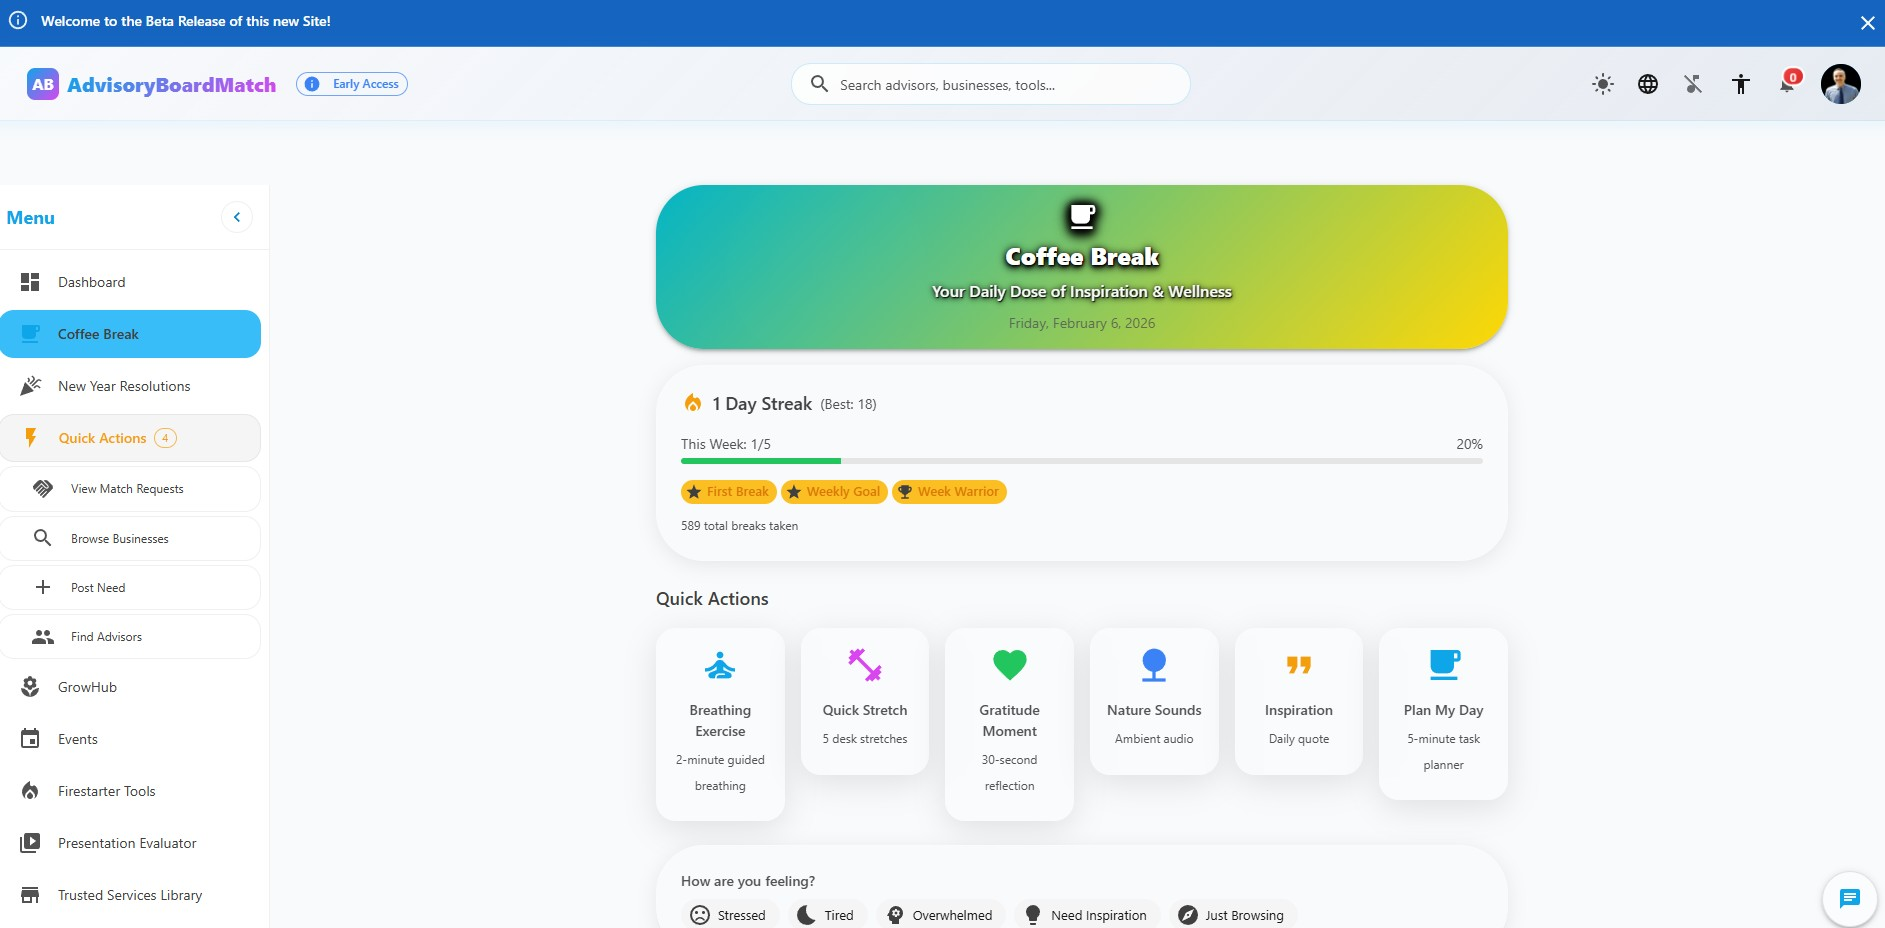
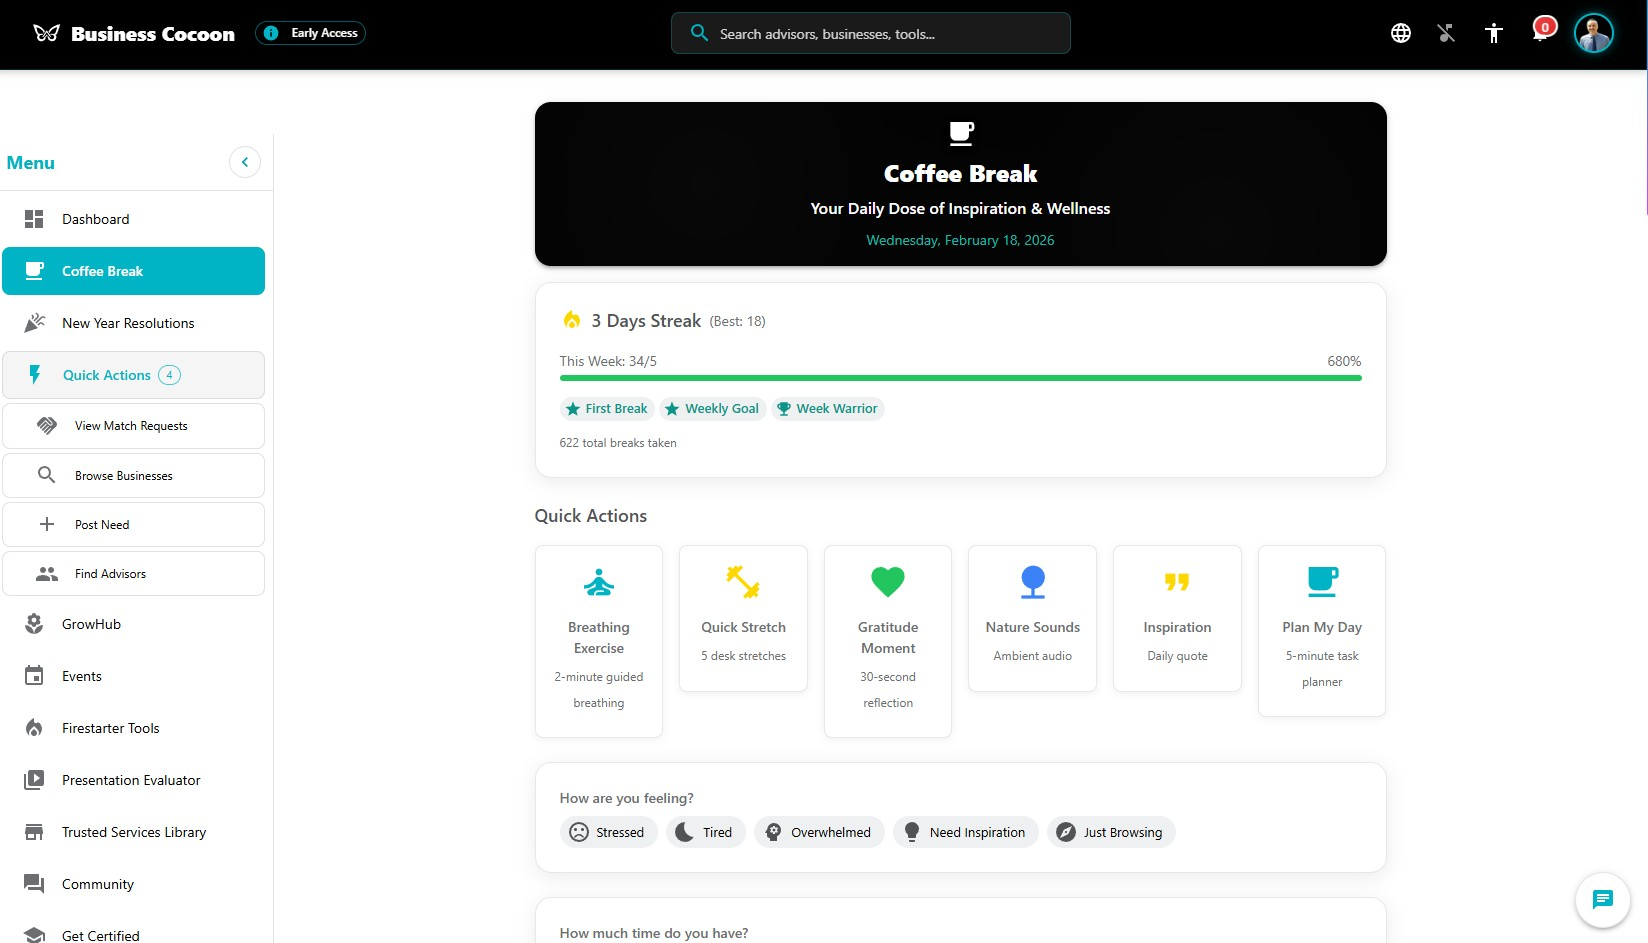
feat: Update references from 'Advisory Board Match' to 'The Business Cocoon' across multiple files, enhancing brand consistency and user experience

diff --git a/src/components/DigitalCreations.tsx b/src/components/DigitalCreations.tsx
@@ -11,11 +11,11 @@ import ScheduleButton from './CalendlyButton'
 const toolIcons = [Sparkles, Zap, Lightbulb] as const
 const toolImageUrls = ['/advisory-board-match.jpg', '/soaring-puck.jpg', '/true-north-audit.jpg'] as const
 const toolImageAlts = [
-  'Advisory Board Match platform showing Coffee Break feature and dashboard interface',
+  'The Business Cocoon platform showing Coffee Break feature and dashboard interface',
   'Soaring Puck dashboard showing team management, player tracking, and operational tools interface',
   'True North Audit AI-powered platform landing page showing enterprise-grade infrastructure security and compliance features',
 ]
-const tryUrls = ['https://www.advisoryboardmatch.com', 'https://www.soaringpuck.com', 'https://www.truenorthaudit.com'] as const
+const tryUrls = ['https://www.businesscocoon.com', 'https://www.soaringpuck.com', 'https://www.truenorthaudit.com'] as const
 
 const DigitalCreations = () => {
   const t = useTranslations('digitalCreations')

diff --git a/src/app/[locale]/digital-creations/page.tsx b/src/app/[locale]/digital-creations/page.tsx
@@ -5,7 +5,7 @@ import DigitalCreations from '@/components/DigitalCreations'
 
 export const metadata = {
   title: 'Digital Creations | ROALLA',
-  description: 'Advisory Board Match, Soaring Puck, True North Audit — practical tools from 30+ years of business enablement experience. Built by ROALLA.',
+  description: 'The Business Cocoon, Soaring Puck, True North Audit — practical tools from 30+ years of business enablement experience. Built by ROALLA.',
 }
 
 export default async function DigitalCreationsPage() {
